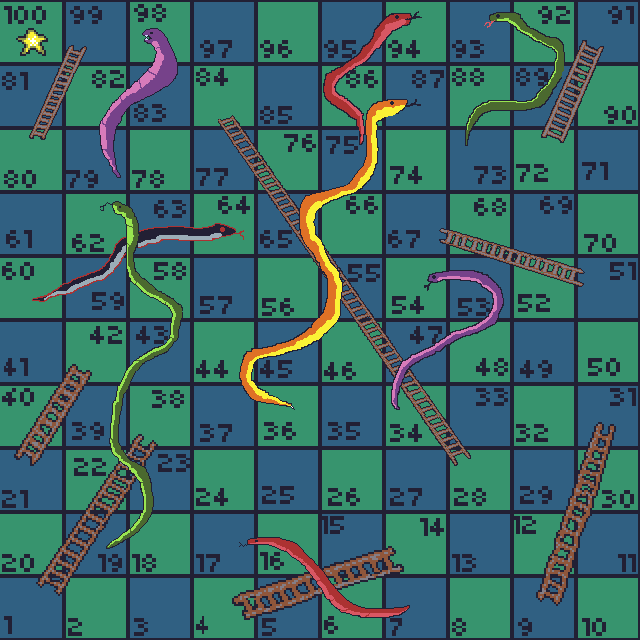
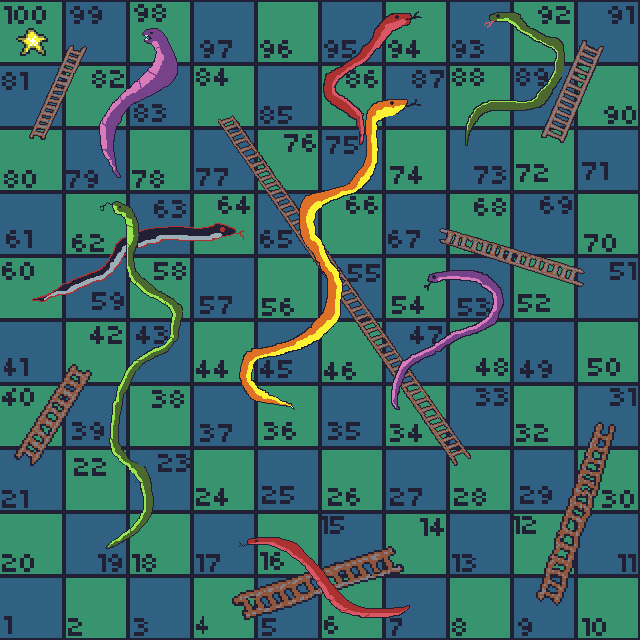
Add the option buttons to quit and return to men menu while the game is running

Changed region(s): [[0.0625, 0.6875, 0.25, 0.9375]]

diff --git a/main.py b/main.py
@@ -57,13 +57,20 @@ class Dice(pygame.sprite.Sprite):
 class Player(pygame.sprite.Sprite):
     def __init__(self,pos,image,groups):
         super().__init__(groups)
-        self.image = pygame.transform.rotozoom(pygame.image.load(join("Game","player",image)).convert_alpha(),0,0.1)
+        self.image = pygame.image.load(join("Game","player",image)).convert_alpha()
         self.rect = self.image.get_rect(center=pos)
         self.current_tile = 1
-        self.offset = (0,0)
+        self.target_tile = 1
+        self.move_path = []
+        self.move_speed = 250
+        self.move_progress = 0
+        self.moving = False
+
+    
+   
     def move(self, steps, snakes, ladders):
         next_tile = self.current_tile + steps
-        if next_tile>100: next_tile=100
+        if next_tile>100: return
         if next_tile in snakes:
             next_tile = snakes[next_tile]
         elif next_tile in ladders:
@@ -87,7 +94,7 @@ start_bg = pygame.transform.smoothscale(pygame.image.load(join("Game","start.png
 
 # --- Game setup ---
 snakes = {17:7,62:19,54:34,64:60,87:36,93:73,94:75,98:79}
-ladders = {1:38,4:14,9:31,21:42,28:94,51:67,72:91,80:99}
+ladders = {4:14,9:31,21:42,28:94,51:67,72:91,80:99}
 
 # --- Start menu ---
 pvp_rect = pygame.Rect(WINDOW_WIDTH//2-150,320,360,60)
@@ -207,7 +214,7 @@ def winner_screen(winner_name):
         pygame.display.update()
         clock.tick(60)
 
-def manage_winner_actions(result, mode, name1, name2):
+def manage_winner_actions(result):
     if result == "play_again":
         return "play_again"
     
@@ -226,14 +233,26 @@ def main(mode,name1,name2):
     current_player=1
     cpu_timer=0
     status_text="Press SPACE to roll the dice"
+    
+    menu_button_rect = pygame.Rect(770, 580, 200, 50)
+    quit_button_rect = pygame.Rect(1000, 580, 200, 50)
 
     while running:
         dt = clock.tick()/1000
+        mouse_pos = pygame.mouse.get_pos()
+
         for e in pygame.event.get():
-            if e.type==pygame.QUIT: running=False
+            if e.type==pygame.QUIT: pygame.quit(); exit()
             if e.type==pygame.KEYDOWN and e.key==pygame.K_SPACE and not dice.is_rolling:
                 if mode=="2player" or (mode=="cpu" and current_player==1):
                     dice.start_roll()
+            
+            if e.type ==pygame.MOUSEBUTTONDOWN:
+                if menu_button_rect.collidepoint(e.pos):
+                    return "menu"
+                elif quit_button_rect.collidepoint(e.pos):
+                    pygame.quit()
+                    exit()
 
         if mode=="cpu" and current_player==2 and not dice.is_rolling and not dice.roll_complete:
             cpu_timer+=dt
@@ -256,7 +275,10 @@ def main(mode,name1,name2):
         display_surf.blit(font.render(f"Dice: {dice.current_value}",True,(200,200,200)),(750,180))
         display_surf.blit(font.render(status_text,True,(255,255,100)),(750,300))
         
-        # Dice result handling
+        draw_button(menu_button_rect, "Main_Menu", hovered=menu_button_rect.collidepoint(mouse_pos), color=(255, 255, 0))
+        draw_button(quit_button_rect, "Quit", hovered=quit_button_rect.collidepoint(mouse_pos), color=(255, 100, 100) )
+
+        # Dice result Handling
         if dice.roll_complete:
             if current_player==1:
                 player1.move(dice.current_value,snakes,ladders)
@@ -280,12 +302,21 @@ if __name__=="__main__":
         mode = show_start_menu()
         name1,name2 = get_names(mode)
         while True:
-            winner_name = main(mode, name1, name2)
-            result = winner_screen(winner_name)
-            
+
+            result = main(mode, name1, name2)
+
             if result == "menu":
-                continue
-            elif result == "play_again":
-                continue
-            else:
                 break
+
+            winner_name = result
+            action = winner_screen(winner_name)
+
+            if action == "menu":
+                break
+
+            elif action == "play_again":
+                continue
+
+            else:
+                pygame.quit()
+                exit()
